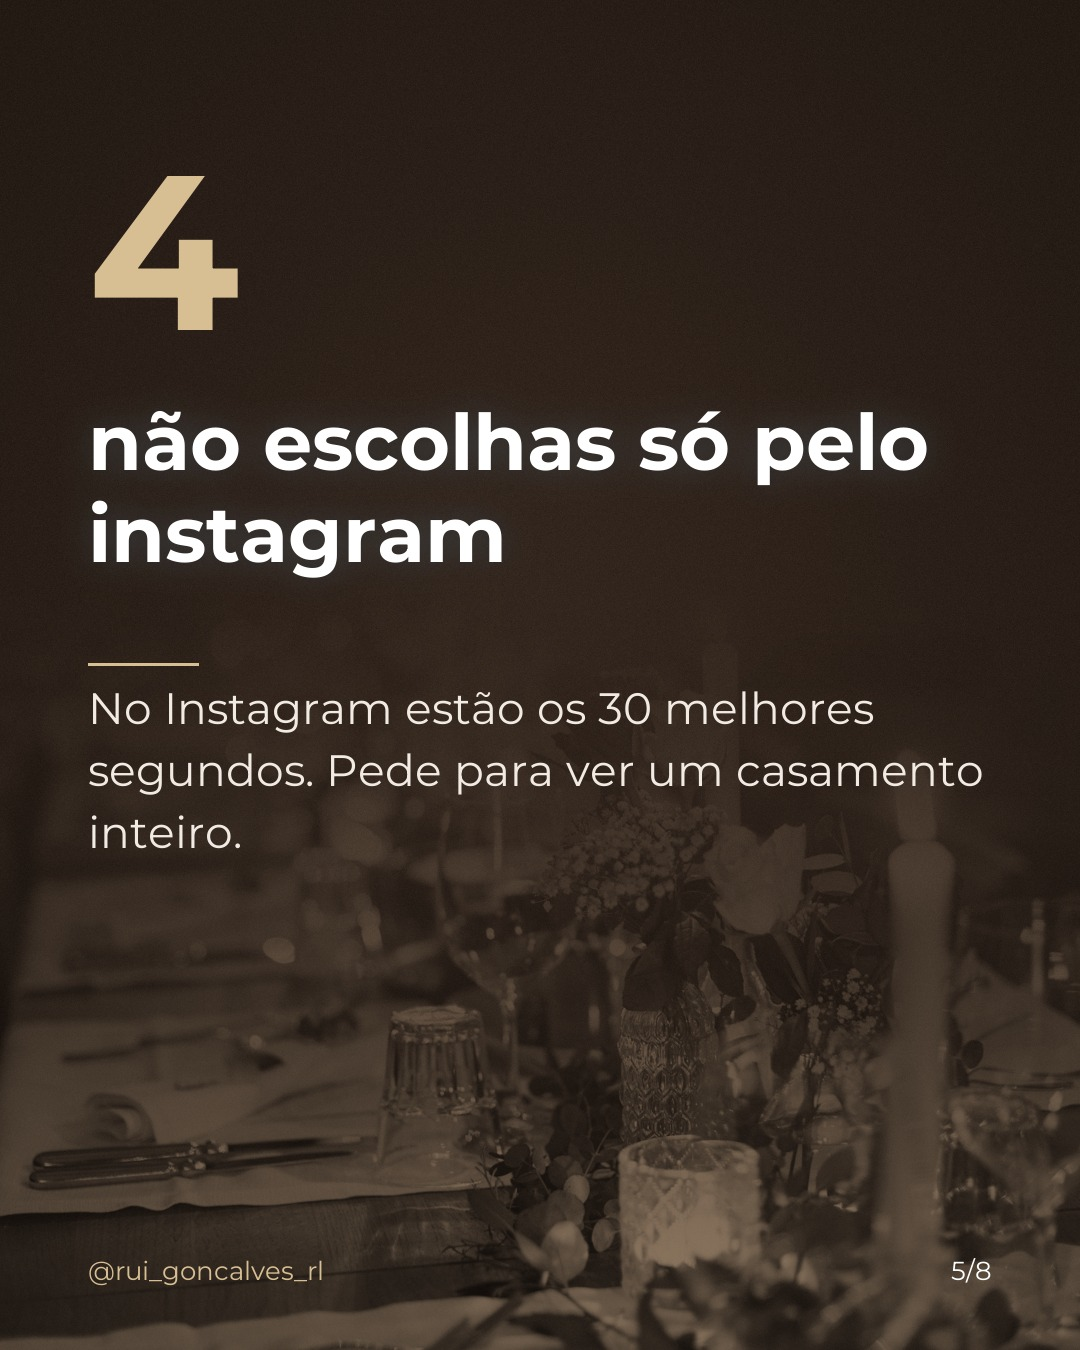
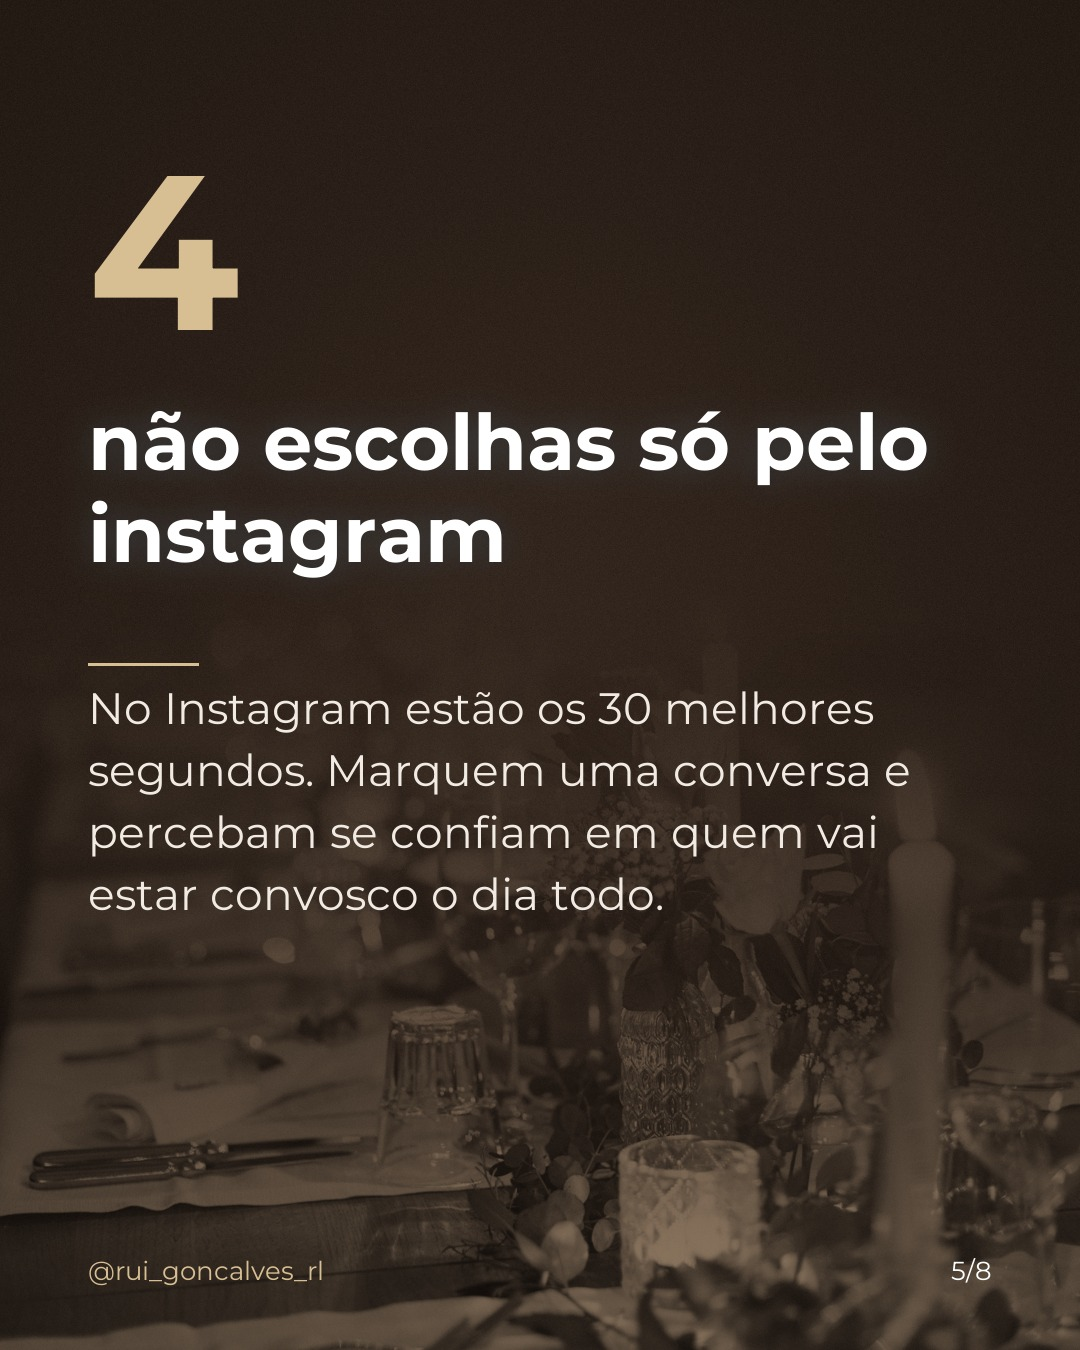
Instagram: carrossel de 19/11, slide 5 sem «pede para ver um casamento inteiro»

Changed region(s): [[0.3056, 0.56, 0.9167, 0.6533], [0.0917, 0.5911, 0.6111, 0.6844]]

diff --git a/app/social-media/instagram/_data/plano.ts b/app/social-media/instagram/_data/plano.ts
@@ -32,7 +32,7 @@ export const POSTS: Post[] = [
       'Slide 2: «1. Não marques a quinta antes de saberes quantos convidados querem.»',
       'Slide 3: «2. Não peças 30 orçamentos. Escolhe 3 pessoas de quem gostas do trabalho e fala com elas.»',
       'Slide 4: «3. Não deixes a foto e o vídeo para o fim. As boas datas de verão fecham primeiro.»',
-      'Slide 5: «4. Não escolhas só pelo Instagram. Pede para ver um casamento inteiro.»',
+      'Slide 5: «4. Não escolhas só pelo Instagram. Marquem uma conversa e percebam se confiam em quem vai estar convosco o dia todo.»',
       'Slide 6: «5. Não decidas sozinha. Data, convidados e orçamento decidem-se a dois.»',
       'Slide 7: «A ordem certa: data, convidados, espaço, foto e vídeo.»',
       'Slide 8: «Guarda e envia ao teu par.»',
